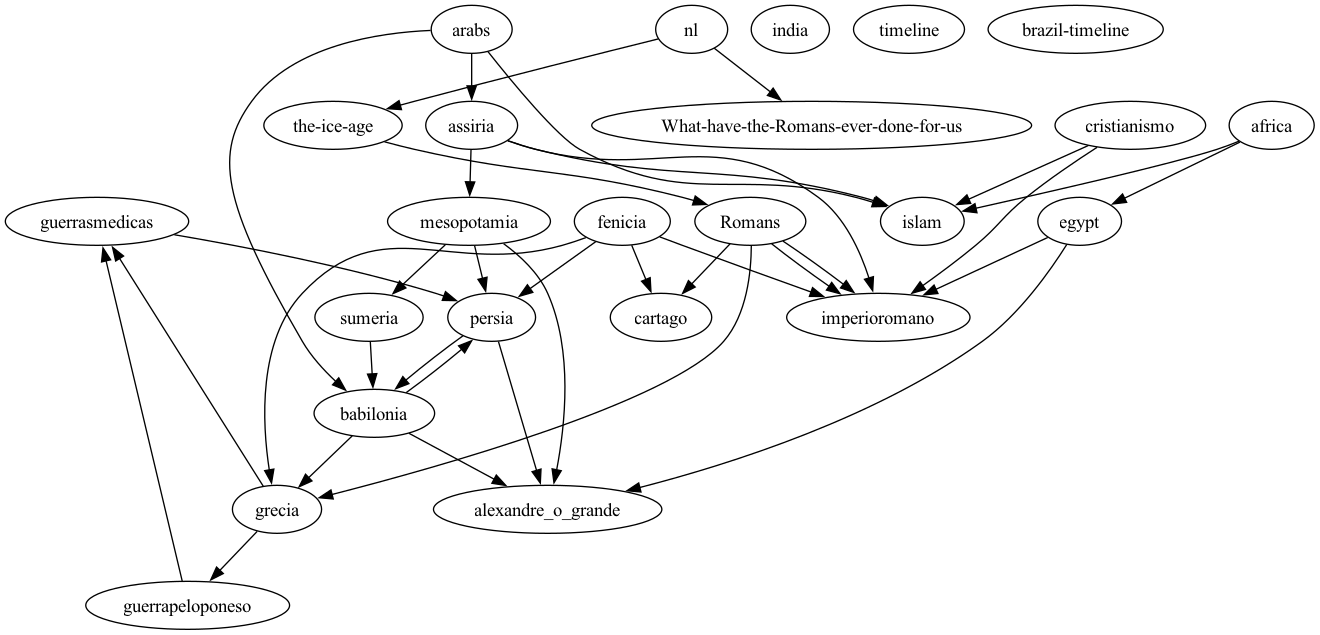
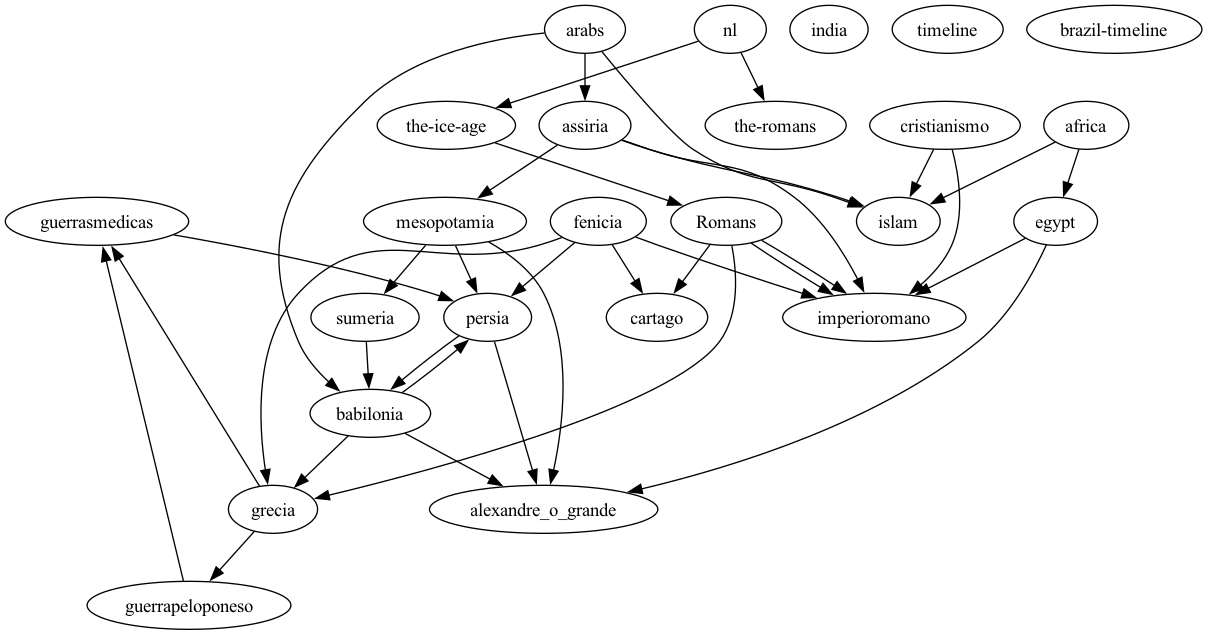
feat: 2 articles NL ::by sergio giraldo @ 20241212T2058CET, gpg signed

diff --git a/docs/netherlands/nl.md b/docs/netherlands/nl.md
@@ -1,4 +1,4 @@
 # Netherlands
 
 [The Ice Age](the-ice-age)
-[What have the Romans ever done for us?](What-have-the-Romans-ever-done-for-us)
+[What have the Romans ever done for us?](the-romans)
